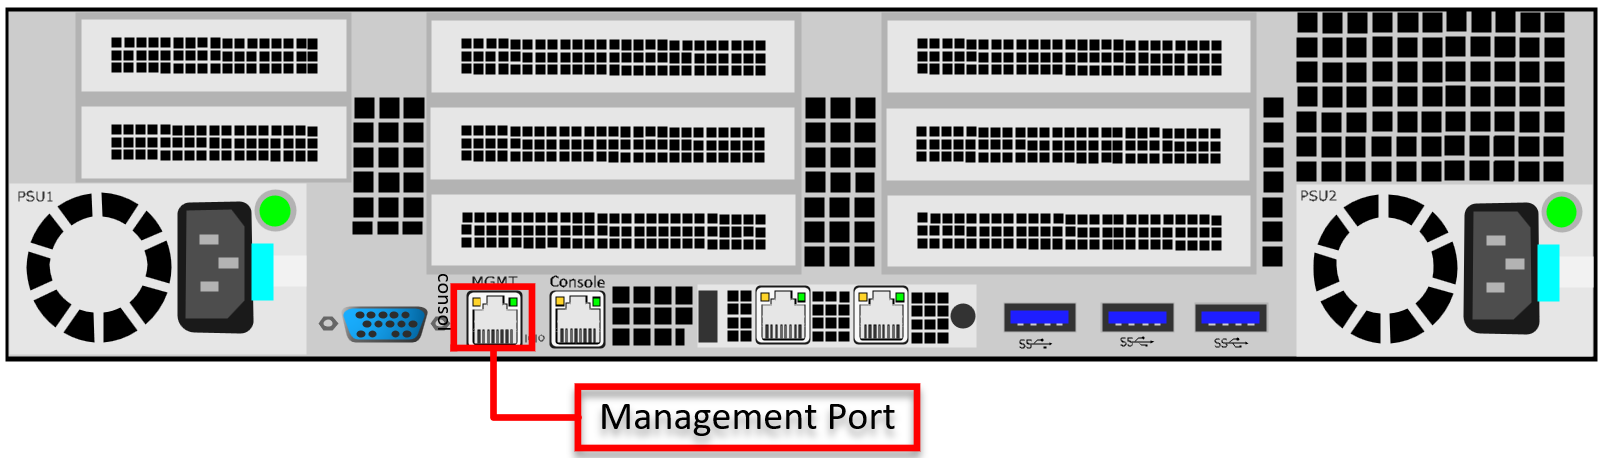
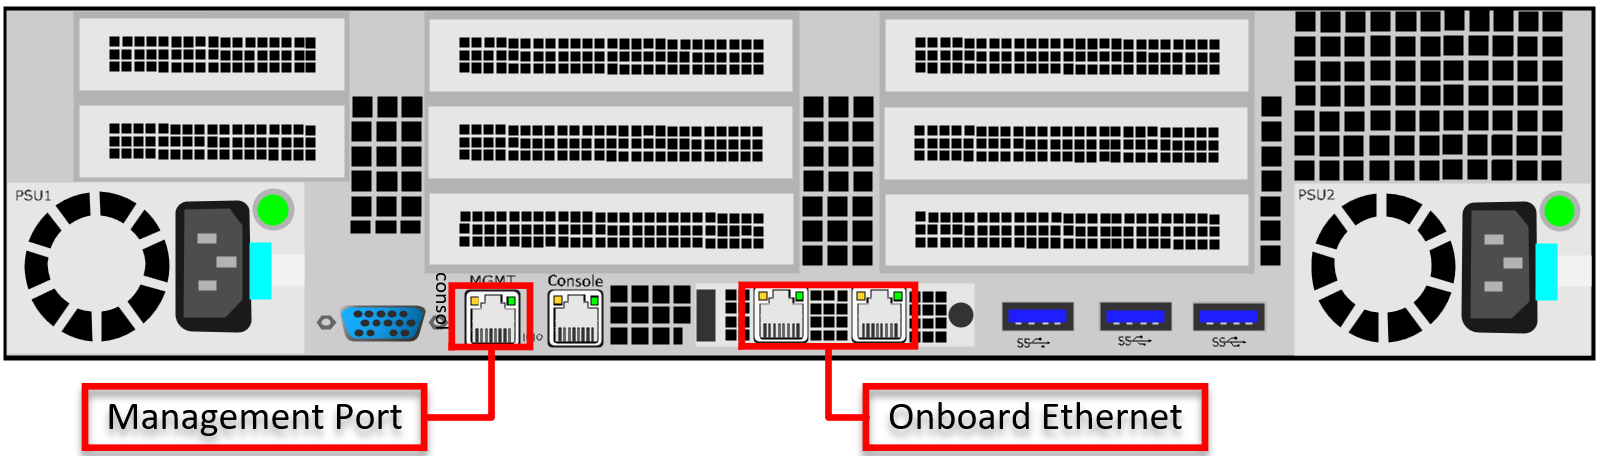
Reviewed BMC instructions

Changed region(s): [[0.0, 0.0, 1.0, 1.0], [0.0625, 0.0614, 0.2188, 0.1842], [0.125, 0.7061, 0.1562, 0.7368]]

diff --git a/Server_Documentation/Intel/Setup_BMC.md b/Server_Documentation/Intel/Setup_BMC.md
@@ -10,6 +10,14 @@
 
 ***
 
+## Prerequisites
+> Before you begin, ensure you have the following:
+
+- **Physical Access to the Server:** You will need to connect peripherals (mouse, keyboard, monitor) to the server and access the physical ports.
+- **Network Information:** Have the **IP address**, **subnet mask**, and **gateway** information ready if you plan to use static IP configuration.
+- **Admin Privileges:** You should have administrative privileges to make changes to the server’s UEFI settings.
+- **Ethernet Cable:** Ensure you have an Ethernet cable to connect the server to your network via the management port.
+- **Web Browser:** Access to a web browser on a device connected to the **same network as the server** for final BMC access.
 
 ## 1. Initial Setup
 1. Connect Hardware:
@@ -33,7 +41,11 @@
         - Set a static or dynamic IPv4 address (Static is recommended for most applications)
         - Enter the subnet mask
         - Enter the gateway
+        > Record network information for later use
     - Plug an Ethernet cable into the management port of the server
+        - There is a mgmt label next to the port
+
+![](https://github.com/kcox-ByteSpeed/Test_Intel_Documentation/blob/main/Images/BMC_Management_Port.png)
 
 2. (Optional) Baseboard LAN Configuration:
     - If desired, navigate to Baseboard LAN Configuration to set up another network address
@@ -41,12 +53,13 @@
 
 
 ## 4. User Configuration
-1. At the top of the page, navigate to `User Configuration` and press <KBD>Enter</KBD>:
+1. At the top of the page, navigate to User Configuration and press <KBD>Enter</KBD>:
 
 2. Set Privileges for User2:
-    - Under User2, set the privilege to the desired level (`User`, `Operator`, `Administrator`, `No Access`)
+    - Under User2, set the privilege to the desired level (`User`, `Operator`, `Administrator`, `No Access`).
     - Change the user status to `Enabled`
-    - Set a `username` and a secure `password`
+    - Set a username and a secure password
+    > **Note:** You can `enable` complex passwords under `User Configuration > Enable Complex Password`. Once enabled, the password complexity criteria will be displayed on the right-hand side of the screen.
 
 3. (Optional) Set Up Additional Users:
     - If needed, set up additional users with desired privileges
@@ -54,9 +67,10 @@
 
 ## 5. Finalizing and Accessing BMC
 1. Save and Exit:
-    - Press <KBD>F10</KBD> to save changes and exit the setup.
+    - Press <KBD>F10</KBD> to save changes and exit the setup
 
 2. Access the BMC:
-    - Ensure the management port is connected to your network via Ethernet.
-    - Open a web browser and navigate to the IP address you set during configuration.
-    - Enter the username and password you created to access the BMC and manage your system remotely.
+    - Ensure the management port is connected to your network via Ethernet
+    - Open a web browser from a machine connected to the same network as the `Dedicated Management LAN Configuration IP` address you set in step [3.1](#3-configuring-bmc-network-settings)
+    - Navigate to the IP address you set during configuration  (Eg. `https://192.168.15.5` )
+    - Enter the username and password you created to access the BMC and manage your system remotely
